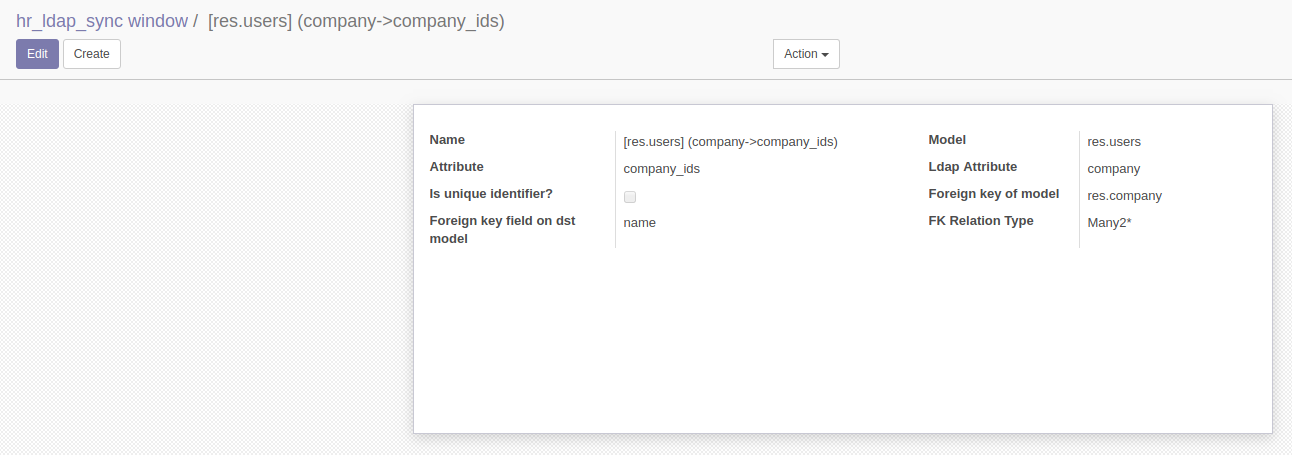
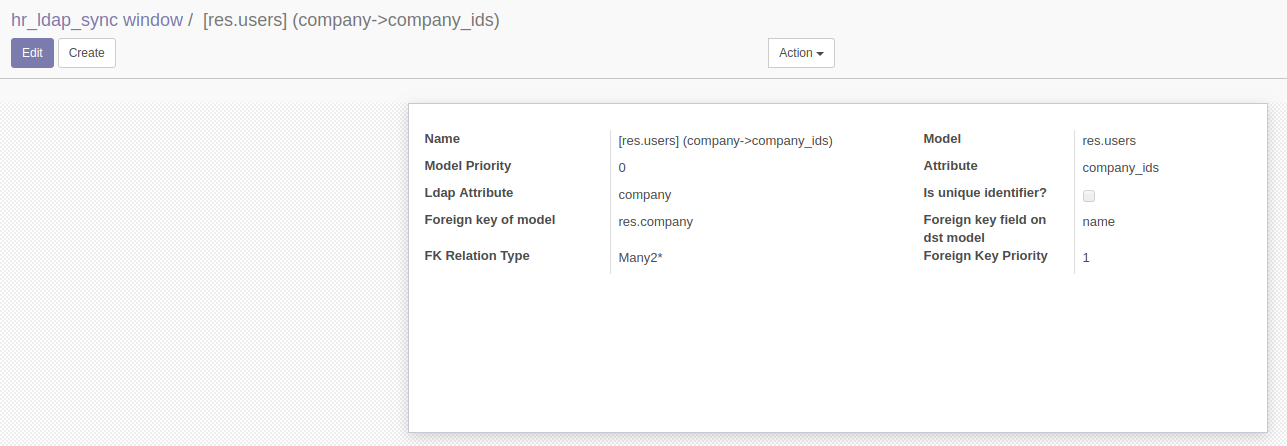
Added support for setting priorities to avoid conflicts.

diff --git a/hr_ldap_sync/models/models.py b/hr_ldap_sync/models/models.py
@@ -1,4 +1,5 @@
 # -*- coding: utf-8 -*-
+import collections
 
 from odoo import models, fields, api, tools
 import logging, sys, base64
@@ -10,7 +11,7 @@ class TransientModelMapping:
 
     def __init__(self):
         self.attributes = {}
-        self.foreign_keys = {}
+        self.foreign_keys = collections.OrderedDict()
         self.id_in_odoo = None
         self.model_instance = None
 
@@ -21,6 +22,12 @@ class TransientModelMapping:
         if not self.id_in_odoo:
             raise ValueError('Model {} dont define an identifier field'.format(self.model_instance))
 
+    # Sort the foreign keys by priority,
+    # priority is in the value part of tuple (1) and is the third element of value (4)
+    def sort_foreign_keys(self):
+        if len(self.foreign_keys) != 0:
+            self.foreign_keys = collections.OrderedDict(sorted((self.foreign_keys).items(), key=lambda t: t[1][4], reverse=True))
+
 class EmployeeLDAP(models.Model):
     _inherit = 'hr.employee'
 
@@ -28,15 +35,19 @@ class EmployeeLDAP(models.Model):
 
 class ModelMapping(models.Model):
     _name = "hr_ldap_sync.model_mapping"
-
     name = fields.Char(compute='_compute_name')
+
     model = fields.Char(required=True)
+    model_priority = fields.Integer(string="Model Priority", help="Higher values are given more importance and executed first.", required=False)
+
     attribute = fields.Char(required=True)
     ldap_attribute = fields.Char(required=True)
     is_unique_identifier = fields.Boolean(string='Is unique identifier?',required=True, default=False)
+
     foreign_key_of = fields.Char(string='Foreign key of model',required=False)
     foreign_key_field = fields.Char(string='Foreign key field on dst model',required=False)
     foreign_key_type = fields.Selection(string='FK Relation Type',selection=[('One2*','One2*'),('Many2*','Many2*')])
+    foreign_key_priority = fields.Integer(string="Foreign Key Priority", help="Higher values are given more importance and executed first.", required=False)
 
 
     @api.multi
@@ -119,9 +130,6 @@ class ModelMapping(models.Model):
         except:
             _logger.error('Error sync {}!##################'.format(traceback.format_exc()))
 
-        # update FK
-        # self.update_fk(records_to_update_fk, mapping)
-
         _logger.info('###############Sync finished!##################')
 
     def update_fk(self, records_to_update, mapping):
@@ -133,28 +141,7 @@ class ModelMapping(models.Model):
         except:
             _logger.error('Error sync {}!##################'.format(traceback.format_exc()))
 
-    def update_fk_users(self, records_to_update, mapping):
-        try:
-            for model in mapping:
-                if model == 'res.users':
-                    _logger.info('###############Update FK {}!##################'.format(model))
-                    for new_record in records_to_update[model]:
-                        self.apply_fks_to_record(new_record['odoo'], new_record['ldap'], mapping[model])
-        except:
-            _logger.error('Error sync {}!##################'.format(traceback.format_exc()))
-
-
-    def update_fk_company(self, records_to_update, mapping):
-        try:
-            for model in mapping:
-                if model in ['res.company', 'hr.job', 'hr.department']:
-                    _logger.info('###############Update FK {}!##################'.format(model))
-                    for new_record in records_to_update[model]:
-                        self.apply_fks_to_record(new_record['odoo'], new_record['ldap'], mapping[model])
-        except:
-            _logger.error('Error sync {}!##################'.format(traceback.format_exc()))
-
-    def add_record(self,record_in_ldap,mapping):
+    def add_record(self, record_in_ldap, mapping):
         new_record = {}
         for attr_odoo,attr_ldap in mapping.attributes.items():
             if attr_ldap in record_in_ldap:
@@ -170,6 +157,7 @@ class ModelMapping(models.Model):
 
         _logger.info('Adding new {} {}'.format(mapping.model_instance,new_record))
         mapping.model_instance.create(new_record)
+
         return new_record
 
     def get_fk(self,fk_model_instance,fk_identifier_field,fk_value_in_ldap):
@@ -178,21 +166,25 @@ class ModelMapping(models.Model):
             return result_fk.id
         return None
 
-    def update_manager_permissions(self, manager):
+    def update_manager_permissions(self):
         # Manager Group Search
-        manager_group = self.env.ref('job_plans.manager_group')
-        # templateManager_group = self.env.ref('job_plans.job_template_manager')
+        try:
+            manager_group = self.env.ref('job_plans.manager_group')
 
-        # if (manager.has_group('job_plans.job_template_manager')):
-        #     templateManager_group.write({'users': [(3, manager.id)]})
-        #     _logger.info('###############Write Template Manager##################')
+            # templateManager_group = self.env.ref('job_plans.job_template_manager')
+            for employee in self.env['hr.employee'].search([]):
 
-        if (not manager.has_group('job_plans.manager_group')):
-            manager_group.write({'users': [(4, manager.id)]})
-            # _logger.info('###############Write Manager##################')
+                if employee.child_ids:
+                    user_manager = employee.user_id
+
+                    if (not user_manager.has_group('job_plans.manager_group')):
+                        manager_group.write({'users': [(4, user_manager.id)]})
+                        #_logger.info('###############Write Manager##################')
+        except:
+            _logger.info('###############Found no Group Manager##################')
 
     def apply_fks_to_record(self,record_to_apply,record_in_ldap,mapping):
-        for model_field,(fk_ldap_field,fk_model_instance,fk_identifier_field,foreign_key_type) in mapping.foreign_keys.items():
+        for model_field,(fk_ldap_field,fk_model_instance,fk_identifier_field,foreign_key_type, foreign_key_priority) in mapping.foreign_keys.items():
             if record_in_ldap.get(fk_ldap_field):
                 fk_value_in_ldap = tools.ustr(record_in_ldap.get(fk_ldap_field)[0])
                 result_fk = self.get_fk(fk_model_instance,fk_identifier_field,fk_value_in_ldap)
@@ -208,26 +200,10 @@ class ModelMapping(models.Model):
                             if foreign_key_type == 'One2*':
                                 record_to_apply[model_field] = result_fk
 
-                                if fk_ldap_field == 'manager':
-                                    manager = record_to_apply['parent_id'].user_id
-
-                                    if manager:
-                                        self.update_manager_permissions(manager)
-                                    else:
-                                        _logger('###############Failed due to no manager##################')
-
                                 # if 'name' in record_to_apply:
                                 #     _logger.info('###############Update {} {} inside One2* FK {} ({}={})!##################'.format(mapping.model_instance,record_to_apply.name,fk_model_instance,fk_identifier_field,fk_value_in_ldap))
                             elif foreign_key_type == 'Many2*':
                                 record_to_apply[model_field] = [result_fk]
-
-                                if fk_ldap_field == 'manager':
-                                    manager = record_to_apply['parent_id'].user_id
-
-                                    if manager:
-                                        self.update_manager_permissions(manager)
-                                    else:
-                                        _logger('###############Failed due to no manager##################')
 
                                 # if 'name' in record_to_apply:
                                 #     _logger.info('###############Update {} {} inside FK Many2* {} ({}={})!##################'.format(mapping.model_instance,record_to_apply.name,fk_model_instance,fk_identifier_field,fk_value_in_ldap))
@@ -257,26 +233,47 @@ class ModelMapping(models.Model):
 
 
     def generate_mapping(self):
-        mapping = {}
+        mapping = collections.OrderedDict()
+        model_priority = {}
+
         for record in self.search([]):
             if record.model not in mapping:
                 mapping[record.model] = TransientModelMapping()
                 mapping[record.model].model_instance = self.env[record.model]
+                model_priority[record.model] = record.model_priority
+
             if record.is_unique_identifier:
                 mapping[record.model].id_in_odoo = record.attribute
+
             if record.foreign_key_of:
-                mapping[record.model].foreign_keys[record.attribute] = (record.ldap_attribute,self.env[record.foreign_key_of],record.foreign_key_field,record.foreign_key_type)
+                mapping[record.model].foreign_keys[record.attribute] = (record.ldap_attribute,self.env[record.foreign_key_of],record.foreign_key_field,record.foreign_key_type, record.foreign_key_priority)
+
             else:
                 mapping[record.model].attributes[record.attribute] = record.ldap_attribute
+
+        # Validate and sort mapping based on priority
         self.validate_mapping(mapping)
-        return mapping
+        self.sort_foreign_keys(mapping)
+        ret = self.sort_models(mapping, model_priority)
+
+        return ret
 
     def validate_mapping(self,mapping):
         for model_name,model_mapping in mapping.items():
             model_mapping.validate()
 
+    def sort_foreign_keys(self, mapping):
+        for model_name,model_mapping in mapping.items():
+            model_mapping.sort_foreign_keys()
+
+    def sort_models(self, mapping, model_priority):
+        mapping = collections.OrderedDict(sorted(mapping.items(), key=lambda t: model_priority[(t[0])], reverse=True))
+
+        return mapping
+
+
     @api.model
-    def sync_FK(self, option):
+    def sync_FK(self):
         Ldap = self.env['res.company.ldap']
 
         companies_ldap = {}
@@ -343,19 +340,14 @@ class ModelMapping(models.Model):
 
                     self.update_record(record_ldap, record_odoo, mapping[model])
                     records_to_update_fk[model].append({'odoo': record_odoo, 'ldap': record_ldap})
-                # for record_id_to_update in records_to_delete:
-                #    map_records_odoo[record_id_to_update].active = False
 
                 _logger.info('###############Sync finished {}!##################'.format(model))
         except:
             _logger.error('Error sync {}!##################'.format(traceback.format_exc()))
 
-        # update FK
-        if option=='users':
-            self.update_fk_users(records_to_update_fk, mapping)
-        elif option=='company':
-            self.update_fk_company(records_to_update_fk, mapping)
-        else:
-            self.update_fk(records_to_update_fk, mapping)
+        self.update_fk(records_to_update_fk, mapping)
+
+        # Give manager permission if needed
+        self.update_manager_permissions()
 
         _logger.info('###############Sync finished!##################')

diff --git a/hr_ldap_sync/doc/index.rst b/hr_ldap_sync/doc/index.rst
@@ -17,7 +17,18 @@ In "List" menu create the LDAP mappings to the Odoo models like so:
 
  
 
-Or import the "hr_ldap_sync.model_mapping.csv" file into Odoo and change it to suit your needs.
+Or import the "hr_ldap_sync.model_mapping.csv" file into Odoo and change it to
+suit your needs.
+
+You must set the priorities for the models and for the foreign keys. If model X
+depends on model Y, then model X should have higher priorities. The "model
+priorities" use the priority of the first mapping of that model found on the
+list.
+
+For Foreign Keys higher priority also means it is executed first. For example
+"company_ids" should be assigned before "company_id" to user foreign key, then
+"company_ids" must have higher priority than "company_id". This priority is in
+relation to the foreign keys in the same model.
 
 Usage
 -----
@@ -25,12 +36,7 @@ Usage
 You should follow these guidelines:
 
 - First use the "Sync" option to synchronize the mappings with the LDAP. (delete is commented, uncoment if needed)
-- Then Update the Foreign Keys for Company, Jobs and Departments by choosing the "Update_FK Company". (if applicable on your mappings)
-- Update the Users Foreign Keys by choosing the "Update_FK Users". (if applicable on your mappings)
-- Update the Foreign Keys for the remaining mappings with the "Update_FK" option.
+- Use the "Update_FK" option to update the foreign keys. 
 
-Sometimes the foreign keys will fail due to missing dependencies. Restart the
-server and try again to refresh the database.
-
-Updating Foreign Keys takes quite some time, if no messages are appearing on
+Updating Foreign Keys takes quite some time, if no error messages are appearing on
 logs then execution is running normally.
